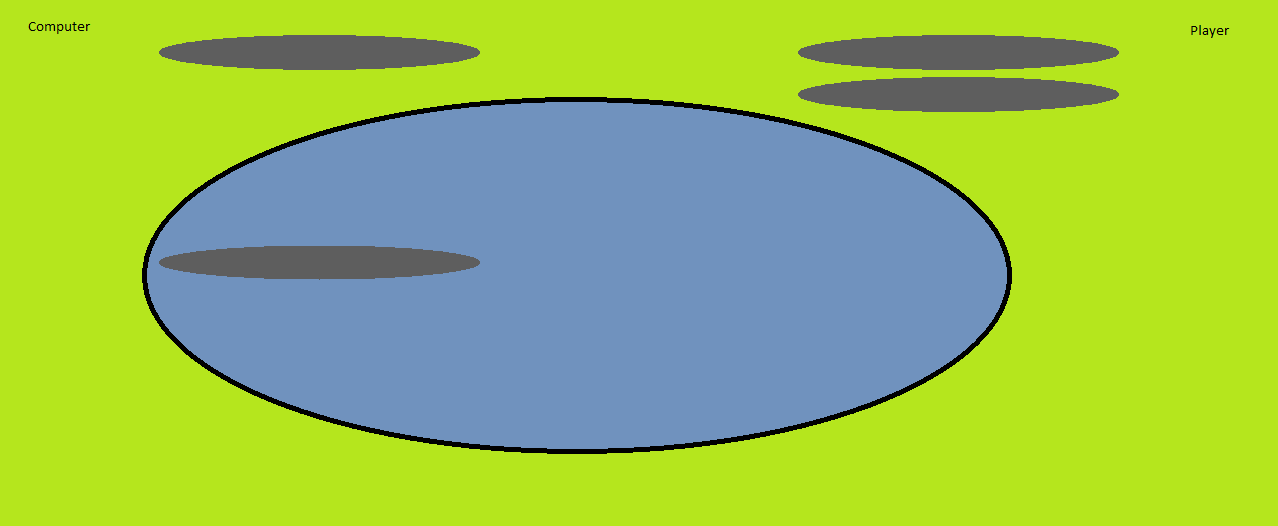
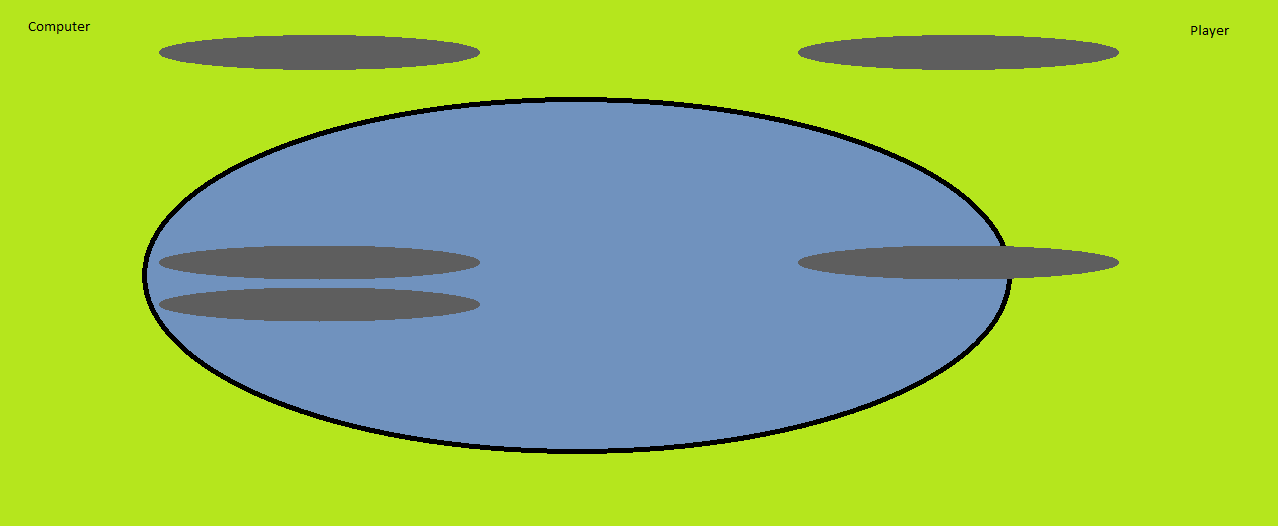
kinda fixed still mostly broken though

Changed region(s): [[0.6103, 0.4563, 0.885, 0.5475], [0.6103, 0.1217, 0.885, 0.2129], [0.1221, 0.5475, 0.3662, 0.6084]]

diff --git a/v1.2/chopsticks.py b/v1.2/chopsticks.py
@@ -1,9 +1,24 @@
 from updatePicture import updatePicture
-from functions import *
+from speak_functions import *
 import time
 import sys
 import os
 from tkinter import *
+import sys
+sys.path.insert(0, "..")
+from base_functions import *
+from universal_functions import *
+
+# what modulus is the game played in?
+mod = 5
+try:
+    mod = int(input("what modulus would you like to play in? (answer an integer between 2 and 9 inclusive)\t"))
+except:
+    pass
+
+if not os.path.exists(modFileName(strategyFile, mod=mod)):
+    headDf = pd.DataFrame(columns=["Previous", "Next"])
+    headDf.to_csv(modFileName(strategyFile, mod=mod), index=False)
 
 root = Tk()
 movePending = True
@@ -14,12 +29,6 @@ def pic(file):
     photo_label = Label(image=photo)
     photo_label.grid()
     photo_label.image = photo
-
-strategyFile = "strategy.csv"
-
-if not os.path.exists(strategyFile):
-    headDf = pd.DataFrame(columns=["Previous", "Next"])
-    headDf.to_csv(strategyFile, index=False)
 
 print("Let's begin")
 
@@ -46,25 +55,25 @@ def tryMove():
     global state
     global turn
     global shift
-    
+
     # game instance
     if gameOver(state) == -1:
         if (turn + shift) % 2 == 0:  # computer move
             if player == "computer":
                 print("My turn")
                 time.sleep(0.5)
-                state = advanceState(state)
-                time.sleep(1)
+                state = advanceState(state, strategyFile, mod=mod)
+                time.sleep(0.5)
             else:
                 print("Player turn")
-                state = inputState(state)
+                state = conform(s_inputState(state, strategyFile, mod=mod, mic=mic))
         else:
             print("Player turn")
             promptMove()
             # note the state assumes the current player is listed first
             state = invertState(state)
             # make the choice
-            state = inputState(state, mic=mic)
+            state = conform(s_inputState(state, strategyFile, mod=mod, mic=mic))
             # we must flip twice
             state = invertState(state)
         turn += 1

diff --git a/v1.2/speak_functions.py b/v1.2/speak_functions.py
@@ -1,0 +1,37 @@
+from chopsticksIn import *
+import win32com.client as wincl
+import sys
+sys.path.insert(0, "..")
+from universal_functions import *
+from base_functions import *
+
+# variables
+strategyFile = "strategy.csv"
+speak = wincl.Dispatch("SAPI.SpVoice")
+
+# speaking interaction functions
+
+# abstraction of speach
+def promptMove():
+    speak.Speak("Please take a move esteemed user")
+
+# say the state
+def sayState(state):
+    s = [str(si) for si in state]
+    s = " ".join(s)
+    speak.Speak("The state is currently " + s)
+
+# get a state from the user
+# note must invert state when reading in and writing out for the computer
+# but this is done elsewhere
+def s_inputState(state, strategyFile, mod=5, mic=True):
+    nextMove = [-1, -1, -1, -1]
+    while not validMove(state, nextMove):
+        if mic:
+            print("-"*1000)
+            print(nextMove, state)
+            nextMove = parseGetIn(state, mod)
+        else:
+            nextMove = parseState(input("input move values, space seperated\t"))
+    addLookupEntry(state, nextMove, strategyFile=strategyFile)
+    return nextMove
